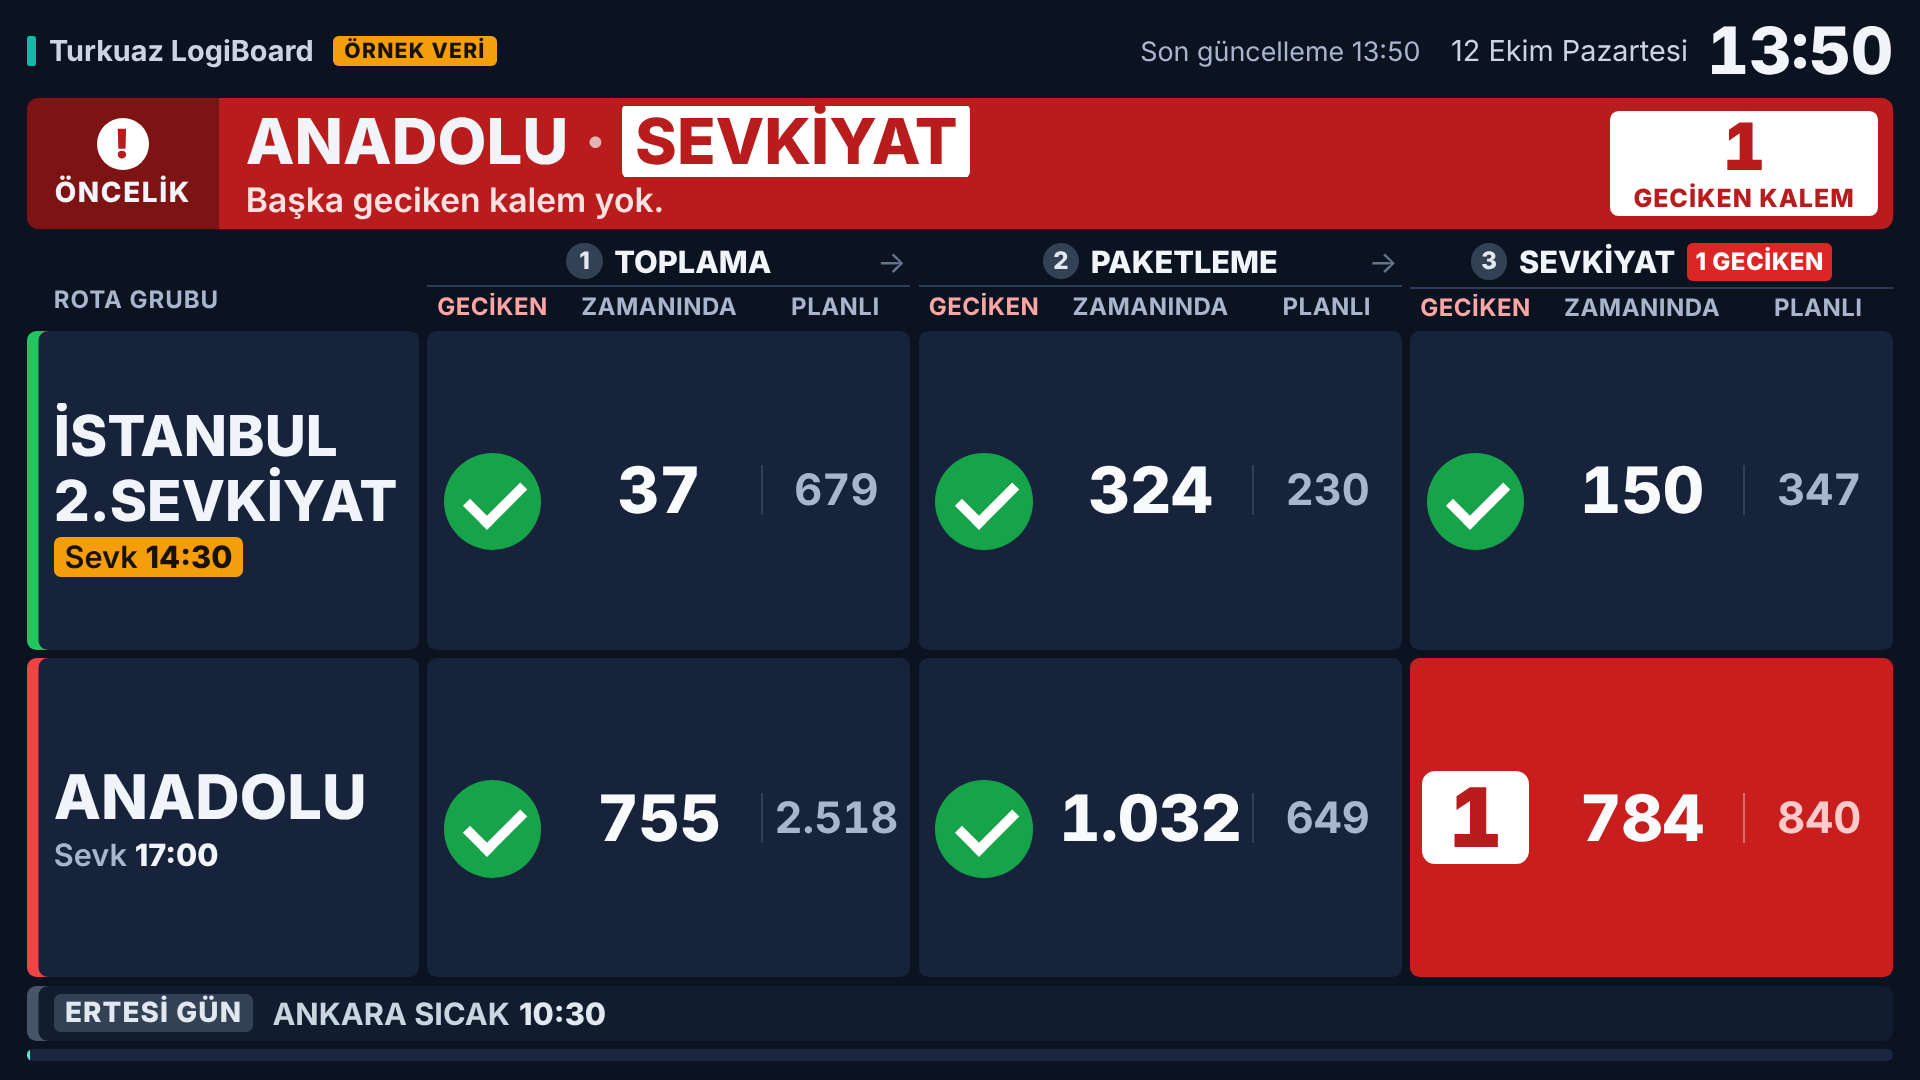
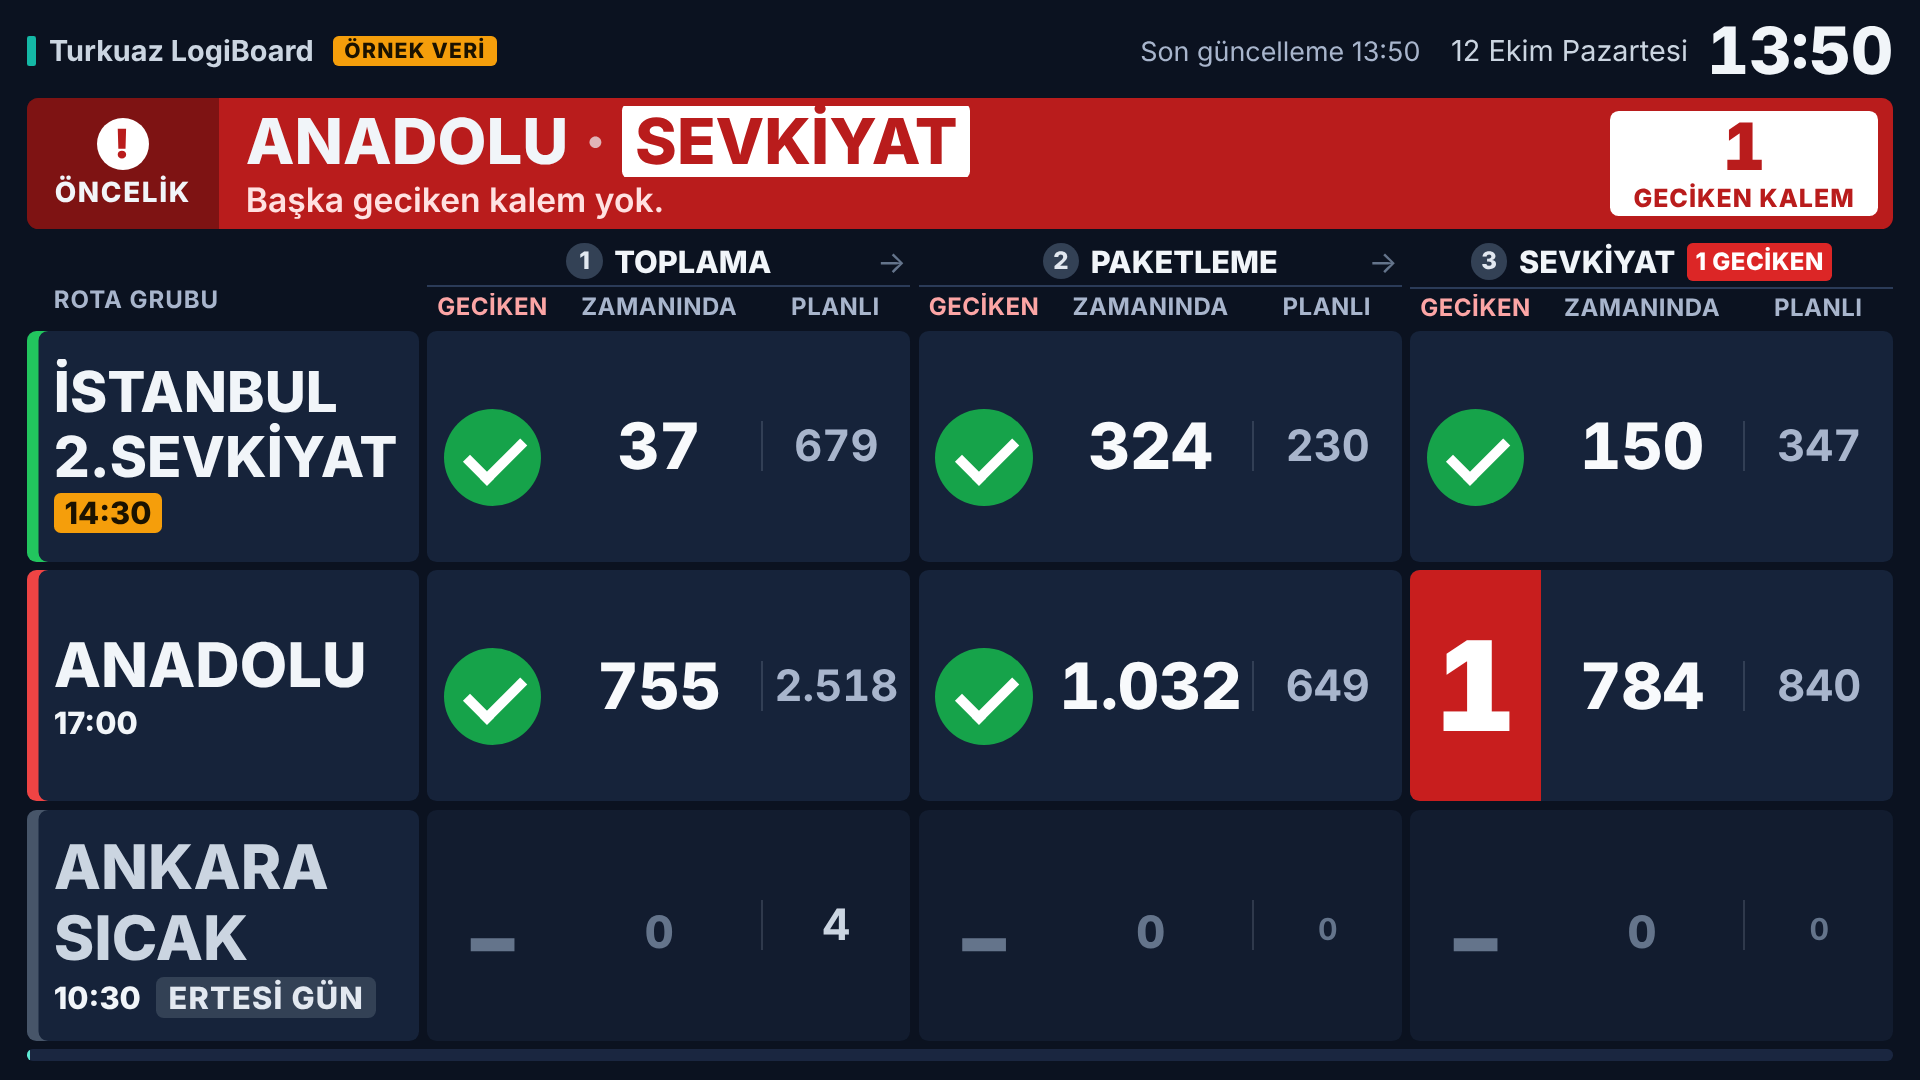
LogiBoard rev 3: red overdue cell only, next-day rows back, no detail hint
- A late tile no longer turns fully red: only its GECİKEN cell is red with
  a white count, so ZAMANINDA and PLANLI keep their normal colours
- Next-day groups are full grey rows at the end with the ERTESİ GÜN tag
  again (revision 1 look); the bottom strip is removed
- The detail header pill ("N GECİKEN BAYİ EN ÜSTTE / İLK SAYFADA") is
  removed; it read as if it referred to the banner's group
- File renamed to the revision timestamp 202610121837.html

Claude-Session: https://claude.ai/code/session_01Xi3LEiCYCLX9URkSp9UJjr

diff --git a/202610121837.html b/202610121837.html
@@ -123,16 +123,6 @@
   .g-next .bn-text { color: #cbd5e1; }
   .g-next .tile { background: #121c2f; }
   .brow.g-next .s-plan { color: #cbd5e1; }
-  /* Ertesi gün şeridi: bugünün grupları varken ertesi günün grupları tek satırda, panonun altında */
-  .bnext { -webkit-flex: none; flex: none; display: -webkit-flex; display: flex; -webkit-align-items: center; align-items: center; margin-top: .45rem; padding: .45rem 1rem .45rem 1.4rem;
-    border-radius: .5rem; background: #121c2f; box-shadow: inset .6rem 0 0 #475569; white-space: nowrap; overflow: hidden; }
-  .bnext .bn-tag { -webkit-flex: none; flex: none; margin: 0 1rem 0 0; font-size: 1.45rem; }
-  .bnx-list { -webkit-flex: 1; flex: 1; min-width: 0; overflow: hidden; font-size: 1.6rem; font-weight: 700; color: #cbd5e1; }
-  .bnx-list b { margin-left: .3em; color: #e2e8f0; font-weight: 800; }
-  .bnx-dot { padding: 0 .3em; color: #64748b; }
-  .bnext.pr { -webkit-align-items: flex-start; align-items: flex-start; }
-  .bnext.pr .bnx-list { white-space: normal; line-height: 1.35; }
-  .bnext.pr .bnx-it { white-space: nowrap; }
 
   .tile { position: relative; -webkit-flex: 1; flex: 1; min-width: 0; display: -webkit-flex; display: flex; -webkit-align-items: center; align-items: center; margin-left: .45rem; border-radius: .5rem; background: #16233a; }
   /* Yeni gecikme: kutunun çerçevesi 3 kez parlar (yalnızca opaklık), sonra kendiliğinden kalkar */
@@ -140,7 +130,6 @@
     -webkit-animation: tflash 1.6s ease-in-out 3; animation: tflash 1.6s ease-in-out 3; }
   @-webkit-keyframes tflash { 0%, 100% { opacity: 0; } 50% { opacity: 1; } }
   @keyframes tflash { 0%, 100% { opacity: 0; } 50% { opacity: 1; } }
-  .tile.late { background: #c81e1e; }
   .bhead .tile { display: block; background: none; }
   .th-proc {
     position: relative; display: -webkit-flex; display: flex; -webkit-align-items: center; align-items: center; -webkit-justify-content: center; justify-content: center;
@@ -169,14 +158,16 @@
   .brow .s-past { font-weight: 900; }
   .brow .s-today { font-weight: 800; color: #f8fafc; }
   .brow .s-plan { font-weight: 700; color: #a8b5cc; }
-  .tile.late .s-plan { color: #fecaca; }
   .brow .s-plan { border-left: .12rem solid rgba(148, 163, 184, .22); }
-  .tile.late .s-plan { border-left-color: rgba(255, 255, 255, .35); }
+  /* Yalnızca GECİKEN hücresi kırmızı yanar (beyaz rakam); ZAMANINDA ve PLANLI normal renkte kalır */
+  .tile.late .s-past {
+    -webkit-align-self: stretch; align-self: stretch; display: -webkit-flex; display: flex; -webkit-align-items: center; align-items: center; -webkit-justify-content: center; justify-content: center;
+    border-radius: .5rem 0 0 .5rem; background: #c81e1e; color: #fff;
+  }
   /* Sıfırlar sönük ve küçük: dolu sayılar öne çıkar */
   .zero { color: #64748b; }
   .brow .slot .zero { font-size: .7em; }
-  .tile.late .zero { color: #fecaca; }
-  .lamp { display: inline-block; min-width: 1.3em; padding: 0 .22em; border-radius: .16em; background: #fff; color: #b91c1c; line-height: 1.12; }
+  .lamp { display: inline-block; line-height: 1.12; }
   .ok-mark { position: relative; display: inline-block; vertical-align: middle; width: .78em; height: .78em; border-radius: 50%; background: #16a34a; }
   .ok-mark:after {
     content: ''; position: absolute; left: .275em; top: .13em; width: .19em; height: .38em;
@@ -248,16 +239,12 @@
   .dh-title small { margin-left: .6rem; font-size: .7em; font-weight: 600; color: #a8b5cc; }
   .dh-title small.ship-soon, .dh-title small.ship-late { font-weight: 800; color: #1a1200; }
   .dh-title small.ship-late { color: #b91c1c; }
-  .dh-hint { -webkit-flex: none; flex: none; margin-left: 1rem; padding: .15rem .7rem; border-radius: .35rem; font-size: 1.25rem; font-weight: 800; letter-spacing: .02em; }
-  .dh-hint.late { background: #dc2626; color: #fff; }
-  .dh-hint.info { background: #334155; color: #e2e8f0; }
   .dh-page { -webkit-flex: 0 1 auto; flex: 0 1 auto; min-width: 0; overflow: hidden; text-overflow: ellipsis; margin-left: auto; padding-left: 1.2rem; font-size: 1.5rem; font-weight: 800; color: #e2e8f0; font-variant-numeric: tabular-nums; }
   .dh-page small { margin-left: .6rem; font-size: 1.25rem; font-weight: 600; color: #a8b5cc; }
   .details-body { -webkit-flex: 1; flex: 1; min-height: 0; overflow: hidden; }
   @media (max-aspect-ratio: 1/1) {
     .details-head { -webkit-flex-wrap: wrap; flex-wrap: wrap; }
     .dh-left { -webkit-flex: 1 1 100%; flex: 1 1 100%; max-width: none; }
-    .dh-hint { margin: .3rem 0 0 0; }
     .dh-page { margin-top: .3rem; }
   }
 
@@ -332,7 +319,6 @@
   <section class="details">
     <div class="details-head">
       <div class="dh-left"><span class="dh-label">DETAY</span><span id="details-title" class="dh-title"></span></div>
-      <span id="details-hint"></span>
       <div id="details-page" class="dh-page"></div>
     </div>
     <div id="details-body" class="details-body"><table id="details"></table></div>
@@ -379,7 +365,6 @@
       { name: 'CUMARTESİ ANADOLU', time: '13:30', sat: true }
     ],
     shipSoonMinutes: 60,  // sevke bu kadar dakika ya da daha az kaldıysa saat amber kutuda gösterilir
-    nextDayStrip: true,   // bugünün grupları varken ertesi günün grupları panonun altında tek şeritte gösterilir
     detailShowPlanned: true,  // detay tablosunda PLANLI sütunlarını göster
     detailMaxPages: 0,    // >0 ise bir grubun detayından tur başına en fazla bu kadar sayfa gösterilir (geciken satırlar hep gösterilir)
     showProcessOverdue: true, // pano başlığında süreç başına toplam geciken rozeti ("3 GECİKEN")
@@ -456,7 +441,7 @@
 
   var el = {};
   ['app', 'title', 'updated', 'time', 'date', 'banner', 'b-tag', 'b-l1', 'b-l2', 'b-count-n', 'b-count-l', 'board',
-    'details-title', 'details-hint', 'details-page', 'details-body', 'details',
+    'details-title', 'details-page', 'details-body', 'details',
     'progress', 'progress-bar', 'message'].forEach(function (id) {
     el[id] = document.getElementById(id);
   });
@@ -845,18 +830,12 @@
     }
   }
 
-  // Metni sırayla daha kısa seçeneklerle dener (her biri isteğe bağlı olarak shrinkSteps adım küçülerek);
-  // hiçbiri sığmazsa sonuncusunu küçültür
-  function setFitted(node, variants, shrinkSteps) {
+  // Metni sırayla daha kısa seçeneklerle dener; hiçbiri sığmazsa sonuncusunu küçültür
+  function setFitted(node, variants) {
     node.style.fontSize = '';
-    var base = parseFloat(window.getComputedStyle(node).fontSize);
     for (var i = 0; i < variants.length; i++) {
       node.innerHTML = variants[i];
-      for (var s = 0; s <= (shrinkSteps || 0); s++) {
-        if (s) node.style.fontSize = (base * Math.pow(0.92, s)) + 'px';
-        if (node.scrollWidth <= node.clientWidth + 1) return;
-      }
-      node.style.fontSize = '';
+      if (node.scrollWidth <= node.clientWidth + 1) return;
     }
     fitCells([node]);
   }
@@ -1101,7 +1080,7 @@
 
   // Pano + detay alt alta sığıyorsa öyle, sığmıyorsa sırayla (sahne) gösterilir
   function decideLayout() {
-    var n = boardSplit().rows.length;
+    var n = state.groups.length;
     var wasScenes = state.scenes;
     state.scenes = false;
     state.rowsPerPage = 0;
@@ -1241,26 +1220,6 @@
     return h + '</div></div>';
   }
 
-  // Panoda satır olarak çizilecek gruplar. Bugünün grupları varsa ertesi günün grupları satır olarak çizilmez,
-  // panonun altındaki tek şeritte adları ve sevk saatleriyle listelenir (bugünün satırları büyük kalır).
-  function boardSplit() {
-    var rows = [], next = [];
-    state.groups.forEach(function (g, i) { (g._next ? next : rows).push(i); });
-    if (!rows.length || !CONFIG.nextDayStrip) return { rows: rows.concat(next), next: [] };
-    return { rows: rows, next: next };
-  }
-
-  // Şerit metni: sığmazsa önce saatler, sonra adlar düşer
-  function nextStripVariants(list) {
-    var full = [], names = [], dot = ' <span class="bnx-dot">·</span> '; // boşluklar dikeyde satır kırılabilsin diye
-    list.forEach(function (i) {
-      var g = state.groups[i], t = esc(groupTitle(g));
-      full.push('<span class="bnx-it">' + t + (g._ship ? '<b>' + esc(g._ship) + '</b>' : '') + '</span>');
-      names.push('<span class="bnx-it">' + t + '</span>');
-    });
-    return [full.join(dot), names.join(dot), fmt(list.length) + ' rota grubu'];
-  }
-
   function shipSignature(now) {
     var sig = [];
     state.groups.forEach(function (g) { sig.push(shipState(g, now)); });
@@ -1270,16 +1229,11 @@
   function renderBoard() {
     var activeGi = !state.scenes && state.order.length ? state.order[state.groupPos] : -1;
     var html = '<div class="bcol">' + boardHead();
-    var widePast = false, split = boardSplit(), now = new Date();
-    split.rows.forEach(function (i) {
-      var g = state.groups[i];
+    var widePast = false, now = new Date();
+    state.groups.forEach(function (g, i) {
       html += boardRow(g, i, i === activeGi, now);
       PROCESSES.forEach(function (p) { var v = metric(g, p.key, 'Past'); if (v > 0 && fmt(v).length >= 4) widePast = true; });
     });
-    if (split.next.length) {
-      html += '<div class="bnext' + (state.portrait ? ' pr' : '') + '"><span class="bn-tag">ERTESİ GÜN</span><div class="bnx-list"></div></div>';
-    }
-    state.nextVariants = split.next.length ? nextStripVariants(split.next) : null;
     state.shipSig = shipSignature(now);
     el.board.className = 'board ' + state.size + (widePast ? ' wide-past' : '');
     el.board.innerHTML = html + '</div>';
@@ -1313,8 +1267,6 @@
     if (el.board.querySelector('.bname.no-shipw')) {
       for (i = 0; i < names.length; i++) if (!/no-shipw/.test(names[i].className)) names[i].className += ' no-shipw';
     }
-    var strip = el.board.querySelector('.bnx-list');
-    if (strip && state.nextVariants) setFitted(strip, state.nextVariants, 3);
   }
 
   // Parlama bitince çerçeve kaldırılır; pano yeniden çizilse de tekrar parlamaz
@@ -1604,11 +1556,7 @@
 
   // Başlık ölçümden önce dolu olmalı, yoksa tablo alanı olduğundan yüksek ölçülür
   function fillDetailsHead() {
-    var gi = state.order[state.groupPos], prep = state.prep[gi];
     fillDetailsTitle();
-    // Geciken yoksa ipucu gösterilmez ("geciken yok" yazılmaz)
-    el['details-hint'].className = prep.lateRows ? 'dh-hint late' : '';
-    el['details-hint'].textContent = prep.lateRows ? fmt(prep.lateRows) + ' GECİKEN ' + trUpper(CONFIG.rowUnit) + ' EN ÜSTTE' : '';
     if (!el['details-page'].innerHTML) el['details-page'].textContent = '…';
   }
 
@@ -1643,17 +1591,6 @@
       (prep.hidden ? (prep.activeOnly ? ' · bugün işi olmayan ' + fmt(prep.hidden) + ' ' + esc(CONFIG.rowUnit) + ' gizli' :
         ' · tümü 0 olan ' + fmt(prep.hidden) + ' ' + esc(CONFIG.rowUnit) + ' gizli') : '') +
       (cut > 0 ? ' · +' + fmt(cut) + ' ' + esc(CONFIG.rowUnit) + ' gösterilmiyor' : '') + '</small>';
-
-    // Kırmızı ipucu yalnızca geciken kayıtların göründüğü sayfalarda; diğer sayfalarda nerede olduklarını söyler
-    if (prep.lateRows) {
-      var latePages = Math.ceil(prep.lateRows / state.rowsPerPage);
-      var lateHere = CONFIG.sortDetailRows && state.page < latePages;
-      var unitUp = trUpper(CONFIG.rowUnit);
-      el['details-hint'].className = 'dh-hint ' + (lateHere || !CONFIG.sortDetailRows ? 'late' : 'info');
-      el['details-hint'].textContent = !CONFIG.sortDetailRows ? fmt(prep.lateRows) + ' GECİKEN ' + unitUp :
-        lateHere ? fmt(prep.lateRows) + ' GECİKEN ' + unitUp + ' EN ÜSTTE' :
-        fmt(prep.lateRows) + ' GECİKEN ' + unitUp + ' ' + (latePages > 1 ? 'İLK SAYFALARDA' : 'İLK SAYFADA');
-    }
 
     markActiveRow();
   }

diff --git a/README.md b/README.md
@@ -1,6 +1,6 @@
 # Turkuaz LogiBoard – Depo İçi Ekran
 
-ERP'den gelen `Turkuaz_Logiboard` verisini depo içi ekranlarda (Omma / Signalive) gösteren tek dosyalık HTML içerik: [`202610121828.html`](202610121828.html).
+ERP'den gelen `Turkuaz_Logiboard` verisini depo içi ekranlarda (Omma / Signalive) gösteren tek dosyalık HTML içerik: [`202610121837.html`](202610121837.html).
 Dosya adı revizyonun tarih ve saatidir (YYYYAAGGSSDD, Türkiye saati); her revizyonda yeni adla gelir.
 Sahadaki personelin 3–10 metreden bakıp **2 saniyede ne yapacağını anlaması** için andon panosu mantığıyla tasarlandı.
 
@@ -17,9 +17,9 @@ Sahadaki personelin 3–10 metreden bakıp **2 saniyede ne yapacağını anlamas
 2. **Andon panosu**
    - Rota grupları **sevk saatine göre** sıralanır (aşağıdaki tablo). Grup adının altında "Sevk 14:30" yazar.
    - **Sevk saati durumu** (Türkiye saatiyle): sevke 60 dakika ya da daha az kaldıysa saat **amber kutuda** görünür. Saat geçtiği hâlde grupta GECİKEN/ZAMANINDA kalem duruyorsa **beyaz kutuda kırmızı "14:30 GEÇTİ"** yazar.
-   - **Ertesi günün grupları alttaki gri şeride alınır.** GECİKEN ve ZAMANINDA değeri olmayan, yalnızca PLANLI değeri olan grup ertesi günün işidir. Bugünün grupları varken bu gruplar satır olarak çizilmez; panonun altındaki **ERTESİ GÜN** şeridinde adları ve sevk saatleriyle listelenir. Böylece bugünün satırları büyük kalır. Cuma günü önce Cumartesi grupları, diğer günler önce hafta içi grupları gelir. Bugün hiç iş yoksa ertesi günün grupları satır olarak gösterilir.
+   - **Ertesi günün grupları sona alınır.** GECİKEN ve ZAMANINDA değeri olmayan, yalnızca PLANLI değeri olan grup ertesi günün işidir. Bu gruplar gri görünür ve "ERTESİ GÜN" etiketi taşır. Cuma günü önce Cumartesi grupları, diğer günler önce hafta içi grupları gelir.
    - Her grup için süreçler TOPLAMA → PAKETLEME → SEVKİYAT sırasıyla, GECİKEN / ZAMANINDA / PLANLI değerleriyle gösterilir; değerler ortalıdır.
-   - Geciken kalemi olan kutu **kırmızı** yanar ve beyaz kutu içinde geciken sayısını gösterir. Bugünün gruplarında geciken yoksa yeşil onay işareti görünür. Grup adının altında "Geciken yok" yazmaz.
+   - Geciken kalem varsa **yalnızca GECİKEN hücresi kırmızı** yanar ve geciken sayısını beyaz rakamla gösterir; aynı süreçteki ZAMANINDA ve PLANLI değerleri normal renkte kalır. Bugünün gruplarında geciken yoksa yeşil onay işareti görünür. Grup adının altında "Geciken yok" yazmaz.
    - **0** değerleri sönük ve küçük yazılır; dolu sayılar öne çıkar.
    - Süreç başlıklarında o süreçteki toplam geciken sayısı rozet olarak görünür, örneğin "5 GECİKEN".
 3. **Detay tablosu**
@@ -120,7 +120,6 @@ Detay tablosunun sütunları **veriden otomatik çıkarılır**. ERP'de alan ekl
 | `detailsKey` | `Details` | Alt detay listesi alanı |
 | `shipTimes` | (yukarıdaki tablo) | Rota gruplarının sevk saatleri ve sıralaması (eski ad `cutoffs` da okunur) |
 | `shipSoonMinutes` | `60` | Sevke bu kadar dakika ya da daha az kaldıysa saat amber kutuda |
-| `nextDayStrip` | `true` | Bugünün grupları varken ertesi günün grupları alttaki şeritte |
 | `detailActiveOnly` | `true` | Detayda yalnızca GECİKEN/ZAMANINDA değeri olan bayiler |
 | `rowUnit` | `bayi` | Detay satırlarının birimi ("123 bayi") |
 | `pageSeconds` | `10` | Detay sayfasının ekranda kalma süresi (sn) |
